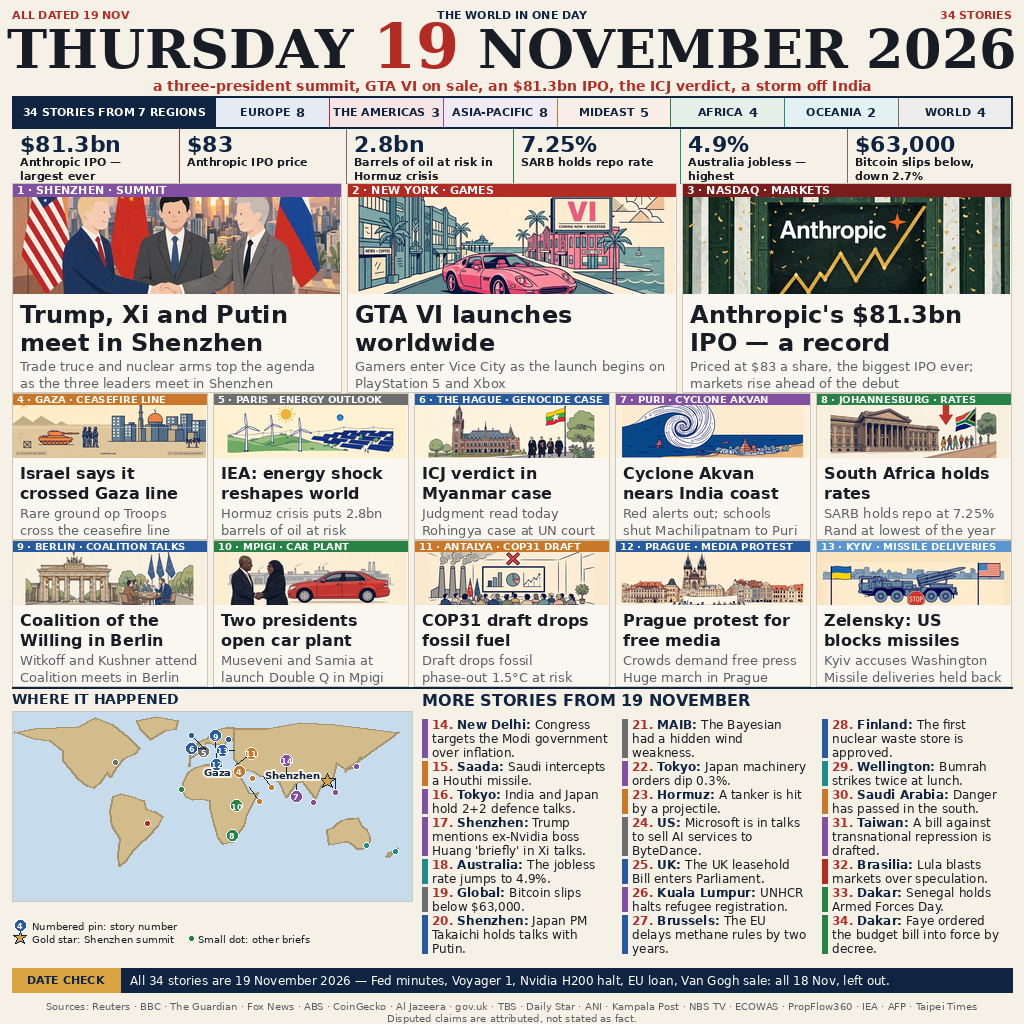
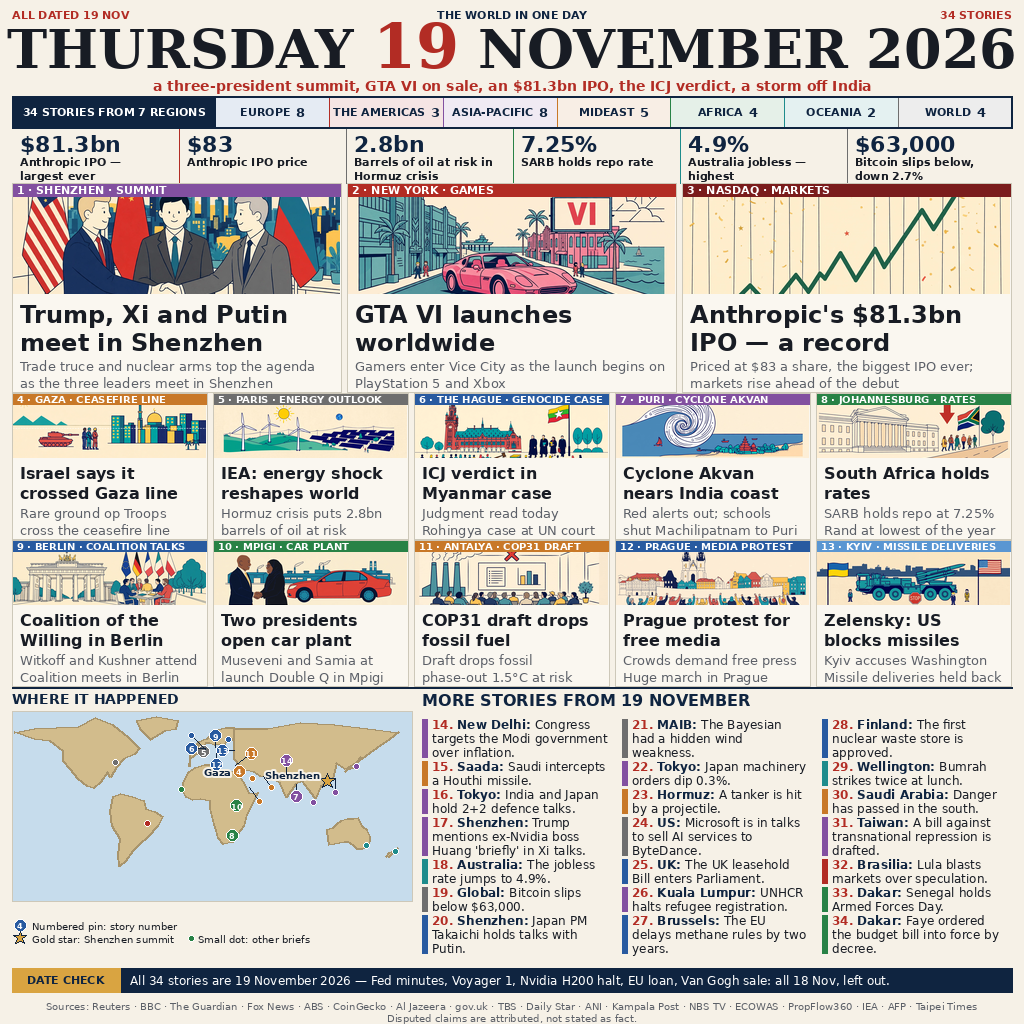
v13: unify all 13 illustrations into one house style (flat cream editorial)
Kevin GAS 20 Nov 09:06 WIB. All 13 panels redrawn from v12 assets via
media.generate_image edit mode with the same style block (STYLE_GUIDE_v13.md):
warm cream paper, thin navy outlines, flat solid blocks, no gradients/3D
shading/glow. Retries: Gaza 1x (stray navy X-box removed), Prague 1x (crowd
enlarged), Kyiv 1x (STOP sign cut at edge -> whole, focus 0.53).
Texts/layout/map/MORE STORIES/divider/margin/legend unchanged (v12 texts kept).
Checks: deterministic 3x, strip 0, top-color 0 identical, lint 0 FAIL,
bundle --dry-run exit 0. entry.png 521306 bytes, sha256 c038a733e59c...

Changed region(s): [[0.0, 0.1875, 1.0, 0.3125], [0.0, 0.375, 1.0, 0.4688], [0.0, 0.5312, 1.0, 0.5938]]

diff --git a/compose_v2.py b/compose_v2.py
@@ -264,7 +264,7 @@ BRIEF_SIZE, BRIEF_LH = 14, 16
 # Heroes: file, headline, deck, strip, region, focus_y (0=top, 1=bottom).
 HEROES = [
     {
-        "file": "media-generation-hero-summit-v2-0-2ef3918e-852b-4192-82f2-4dc4ce2eedb5.png",
+        "file": "media-generation-v13-hero-summit-0-53ba1959-dde9-41ad-86cb-fd421ef74b06.png",
         "headline": "Trump, Xi and Putin meet in Shenzhen",
         "deck": "Trade truce and nuclear arms top the agenda as the three leaders meet in Shenzhen",
         "strip": "1 · SHENZHEN · SUMMIT",
@@ -272,7 +272,7 @@ HEROES = [
         "focus": 0.55,
     },
     {
-        "file": "media-generation-hero-gtavi-0-2ba192a8-4751-42fd-bb85-541410d0920c.png",
+        "file": "media-generation-v13-hero-gtavi-0-326a55a1-5713-4286-a146-42cbf19a27bc.png",
         "headline": "GTA VI launches worldwide",
         "deck": "Gamers enter Vice City as the launch begins on PlayStation 5 and Xbox",
         "strip": "2 · NEW YORK · GAMES",
@@ -280,7 +280,7 @@ HEROES = [
         "focus": 0.57,
     },
     {
-        "file": "media-generation-hero-ipo-v2-0-49b14d6a-813e-4e61-a965-6d53f5fc43fb.png",
+        "file": "media-generation-v13-hero-ipo-0-426806e4-929e-4dc1-9d8d-c9f4fb3c3c00.png",
         "headline": "Anthropic's $81.3bn IPO — a record",
         "deck": "Priced at $83 a share, the biggest IPO ever; markets rise ahead of the debut",
         "strip": "3 · NASDAQ · MARKETS",
@@ -291,6 +291,14 @@ HEROES = [
 
 # Cards in reading order (numbers 4-13): city, title, file, s1, s2,
 # strip, region, focus_y.
+# v13 (20 Nov, Kevin GAS 'buat 1 gaya'): SEMUA 13 panel digambar ulang
+# ke SATU house style (STYLE_GUIDE_v13.md) via media.generate_image mode
+# edit dari aset v12 — komposisi sketsa tetap, hanya rendering disatukan:
+# latar kertas krem, outline navy tipis, blok warna datar, tanpa gradien/
+# shading 3D/glow. Retry: Prague 1x (kerumunan diperbesar), Gaza 1x
+# (kotak-X navy liar dihapus), Kyiv 1x (rambu STOP terpotong tepi ->
+# digeser utuh + focus 0.53). Teks v12 TETAP (Hormuz 'at risk', COP31
+# '1.5C at risk', Gaza 'Israel says it crossed Gaza line').
 # v12 (20 Nov ~09:05 WIB, Kevin GAS "Perbaiki v12"; 3 perbaikan teks
 # murah dari audit pasca-kerja v11 — duel v11 GATE GAGAL, juri tidak
 # percaya "lost" di Hormuz + deck COP31 kontradiktif + headline Gaza
@@ -306,45 +314,45 @@ HEROES = [
 # legenda, DATE CHECK, footer TIDAK berubah.
 CARDS = [
     ("Gaza", "Israel says it crossed Gaza line",
-     "media-generation-card-gaza-0-f096b08f-9edf-4908-b025-7a2ac5ab476f.png",
+     "media-generation-v13-card-gaza-r1-0-35c4a190-d7da-4c2c-a6be-d50214c75e31.png",
      "Rare ground op", "Troops cross the ceasefire line",
      "4 · GAZA · CEASEFIRE LINE", "MIDEAST", 0.50),
     ("Paris", "IEA: energy shock reshapes world",
-     "media-generation-card-iea-weo-0-a7fea00f.png",
+     "media-generation-v13-card-iea-0-f77c880c-3b4f-4f21-96d4-03964ab43cff.png",
      "Hormuz crisis puts 2.8bn", "barrels of oil at risk",
      "5 · PARIS · ENERGY OUTLOOK", "WORLD", 0.50),
     ("The Hague", "ICJ verdict in Myanmar case",
-     "media-generation-card-icj-0-011a1eeb-2b66-41b8-a944-1d5ddf9a0fda.png",
+     "media-generation-v13-card-icj-0-54546ade-0559-476c-a828-2b7e0bb84d7c.png",
      "Judgment read today", "Rohingya case at UN court",
      "6 · THE HAGUE · GENOCIDE CASE", "EUROPE", 0.50),
     ("Puri", "Cyclone Akvan nears India coast",
-     "media-generation-card-cyclone-0-d9f8d73c-ef93-4c67-b3e4-31660ea6557b.png",
+     "media-generation-v13-card-cyclone-0-21c0b5f3-8cda-441b-9fcd-a4110a55f273.png",
      "Red alerts out; schools shut", "Machilipatnam to Puri",
      "7 · PURI · CYCLONE AKVAN", "ASIA", 0.50),
     ("Johannesburg", "South Africa holds rates",
-     "media-generation-card-sarb-0-1ae3bf5f-15dd-42cd-9cf8-09688ab8d5fa.png",
+     "media-generation-v13-card-sarb-0-520ca8a3-b008-44bf-b9f4-8090294432da.png",
      "SARB holds repo at 7.25%", "Rand at lowest of the year",
      "8 · JOHANNESBURG · RATES", "AFRICA", 0.50),
     ("Berlin", "Coalition of the Willing in Berlin",
-     "media-generation-card-berlin-0-bf1abbaa-3f07-4a81-bf3c-09cc2250243e.png",
+     "media-generation-v13-card-berlin-0-040f2e20-43bc-418d-baf4-1e27df946478.png",
      "Witkoff and Kushner attend", "Coalition meets in Berlin",
      "9 · BERLIN · COALITION TALKS", "EUROPE", 0.50),
     ("Mpigi", "Two presidents open car plant",
-     "media-generation-card-uganda-v2-0-3a6cb6aa-71d0-4b1a-8a03-8950e79bddec.png",
+     "media-generation-v13-card-uganda-0-7192af64-9d00-4084-9f35-5922c8ab2400.png",
      "Museveni and Samia at launch", "Double Q in Mpigi",
      "10 · MPIGI · CAR PLANT", "AFRICA", 0.50),
     ("Antalya", "COP31 draft drops fossil fuel",
-     "media-generation-card-cop31-0-b3cba7ef-38d6-43dc-b5ed-902701778d89.png",
+     "media-generation-v13-card-cop31-0-a15c90a6-c074-48c0-84ff-e663bb203ac4.png",
      "Draft drops fossil phase-out", "1.5°C at risk",
      "11 · ANTALYA · COP31 DRAFT", "MIDEAST", 0.50),
     ("Prague", "Prague protest for free media",
-     "media-generation-card-prague-0-85b675a9-6723-4533-ac21-802291588bd5.png",
+     "media-generation-v13-card-prague-r1-0-69e46e74-e201-4e71-928e-28e4e47039cb.png",
      "Crowds demand free press", "Huge march in Prague",
      "12 · PRAGUE · MEDIA PROTEST", "EUROPE", 0.50),
     ("Kyiv", "Zelensky: US blocks missiles",
-     "media-generation-card-kyiv-0-bd53f931-1191-476d-9dd6-cafd2dc91fdd.png",
+     "media-generation-v13-card-kyiv-r1-0-b3da1ed4-1f4a-4d5c-94f8-7480473a9708.png",
      "Kyiv accuses Washington", "Missile deliveries held back",
-     "13 · KYIV · MISSILE DELIVERIES", "EUROPE", 0.50),
+     "13 · KYIV · MISSILE DELIVERIES", "EUROPE", 0.53),
 ]
 
 # Briefs in reading order (numbers 14-31): city, region, text.
